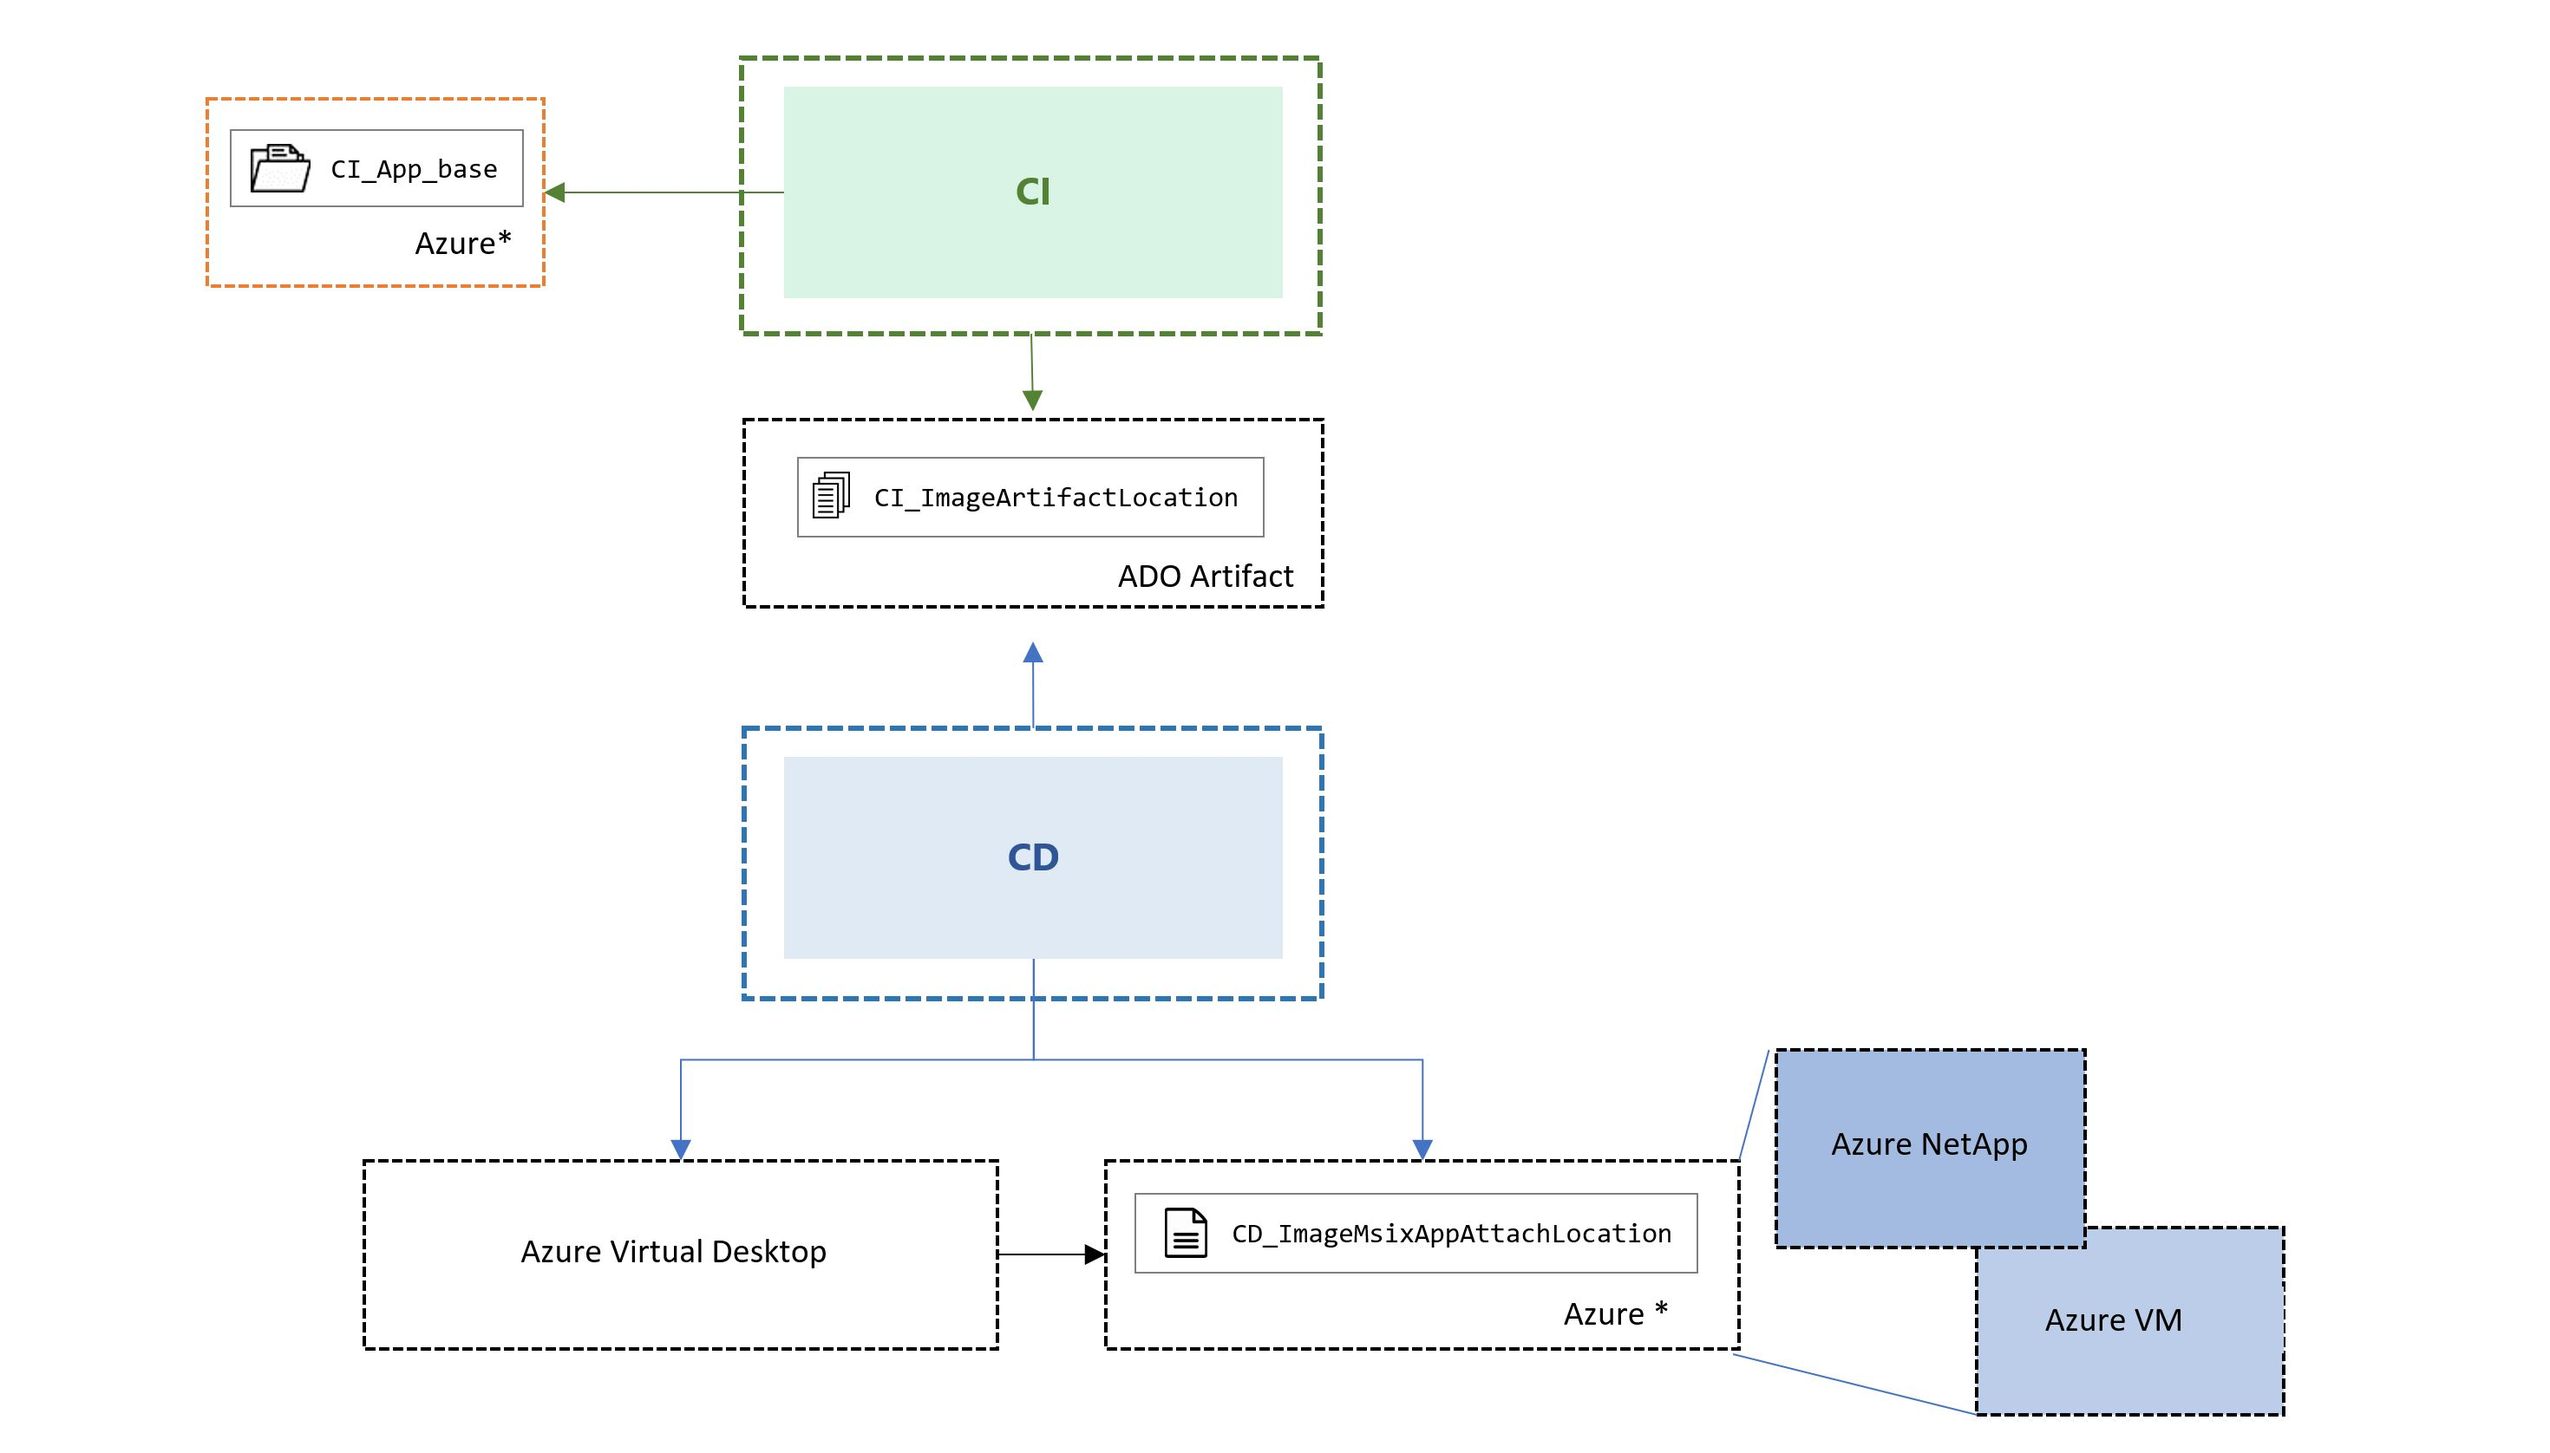
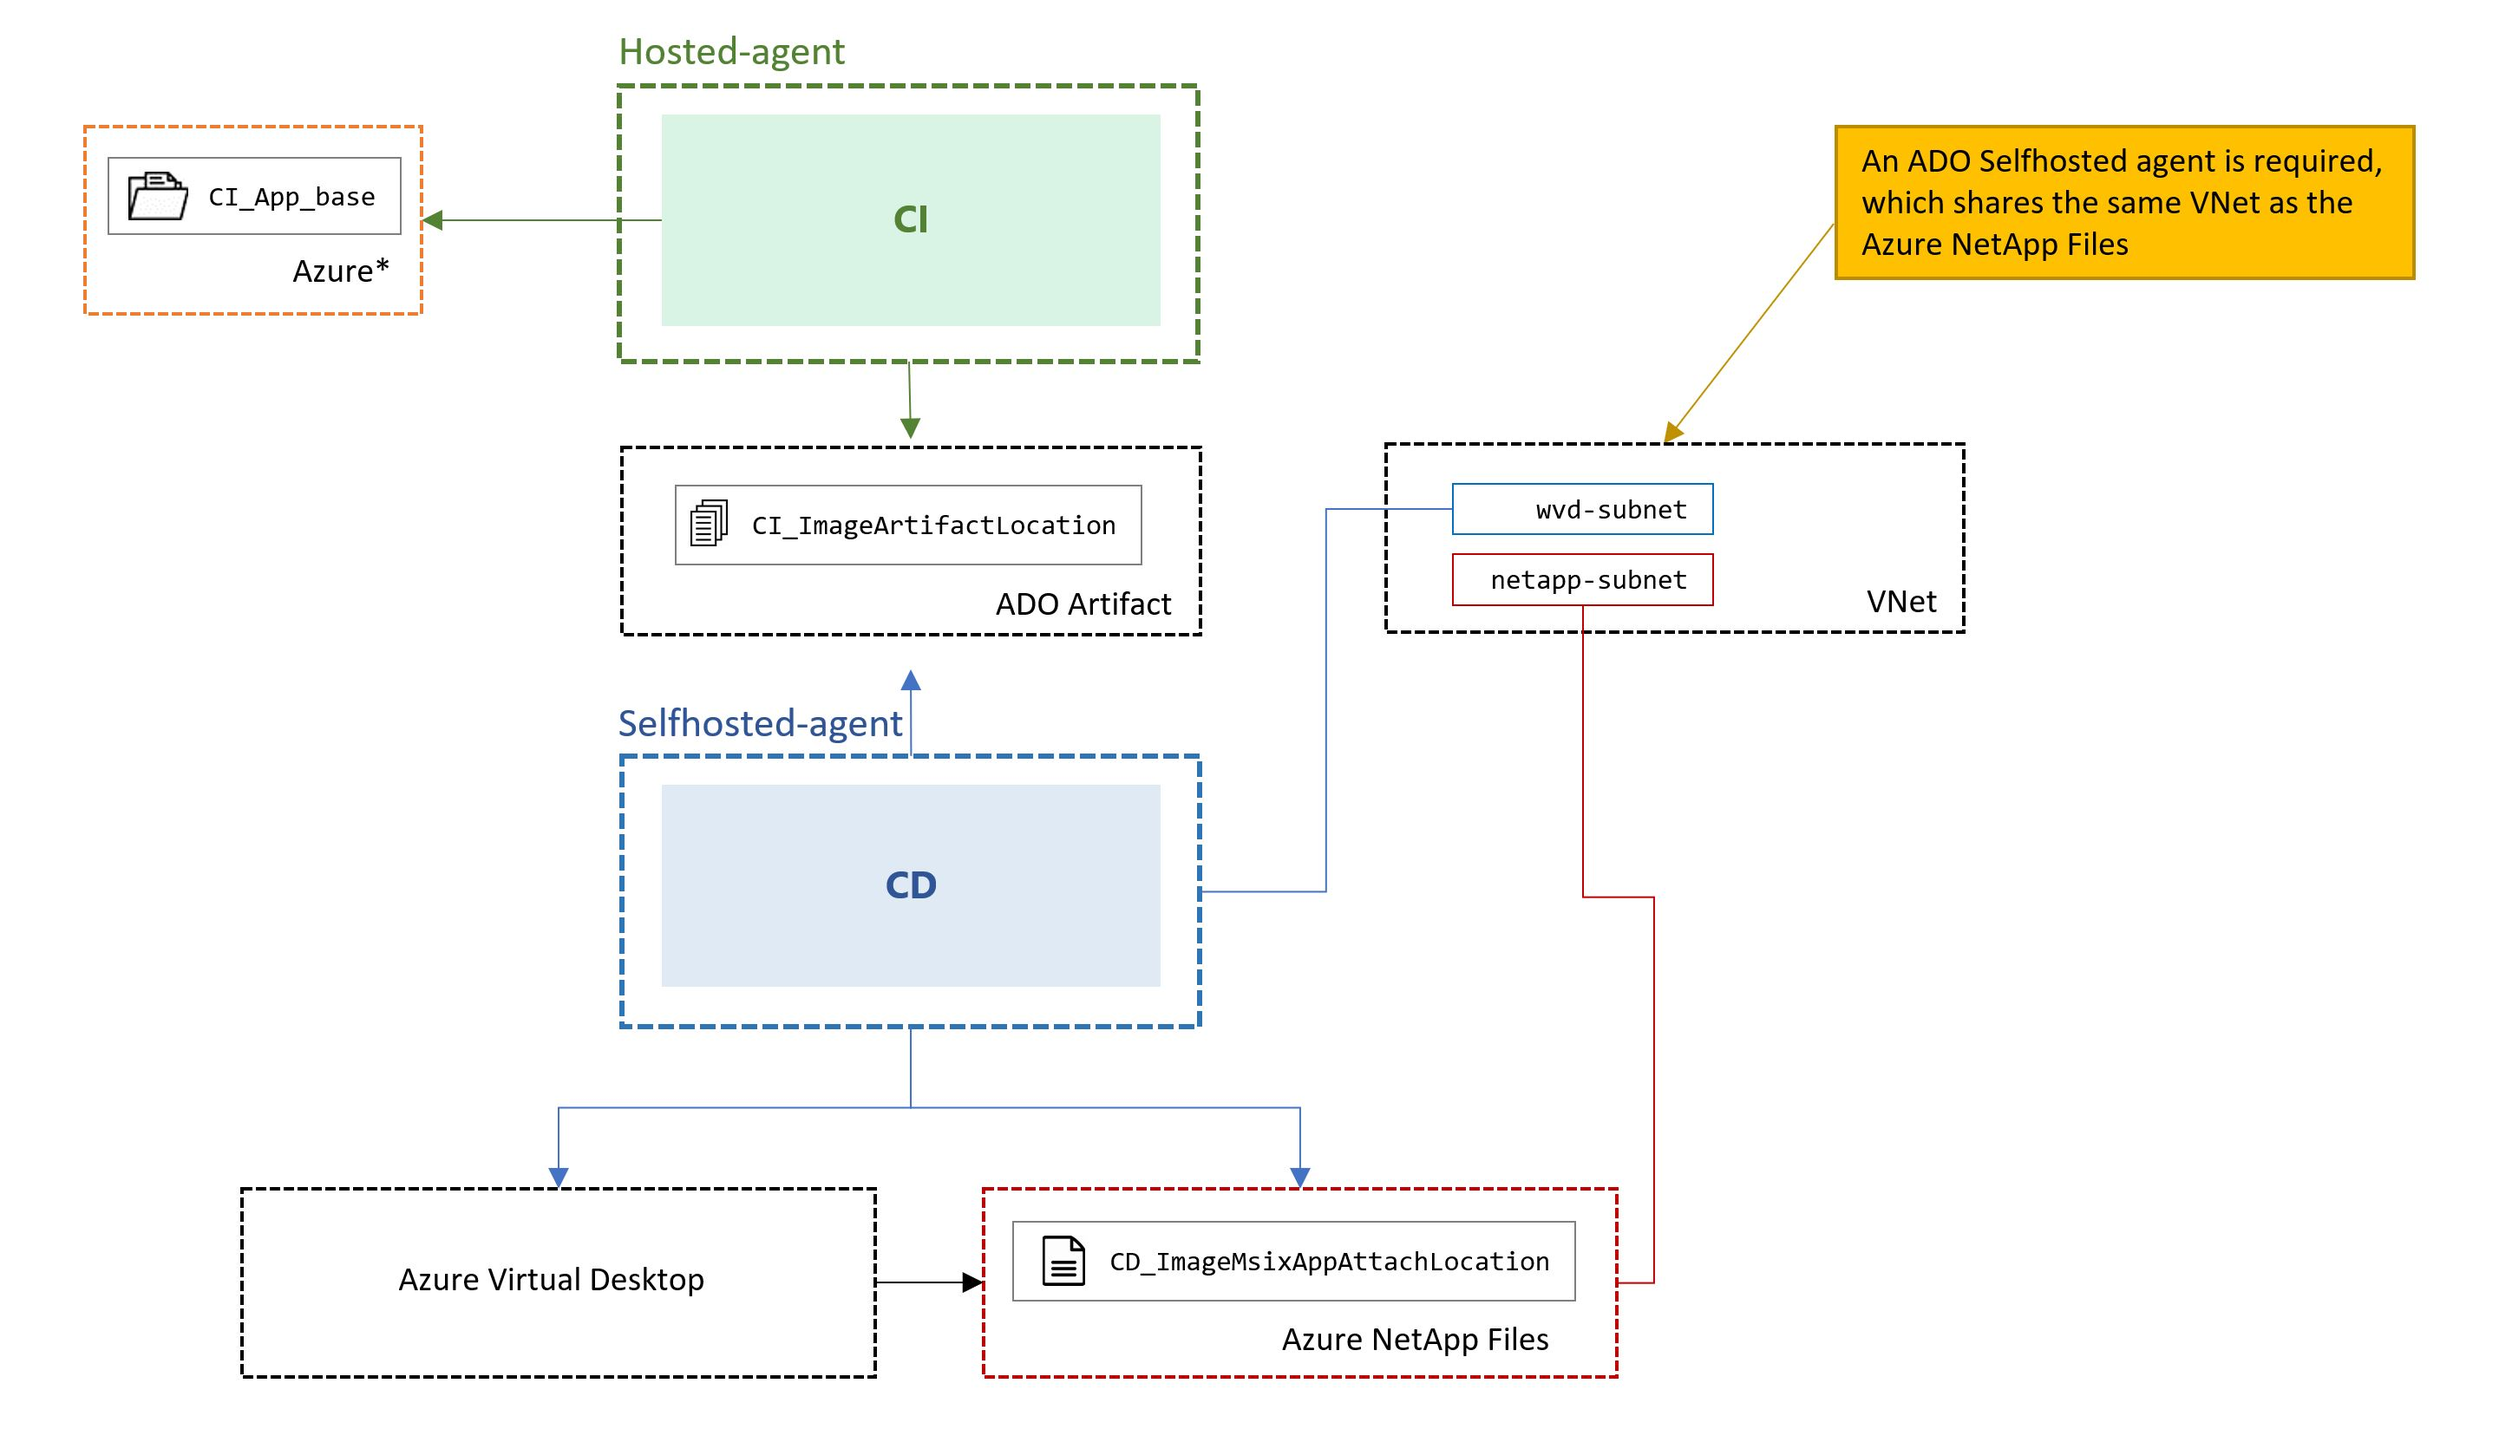
update Netapp docu

diff --git a/README.md b/README.md
@@ -65,7 +65,7 @@ As this project fosters a full MSIX Appattach CI/CD pipeline to Azure Virtual De
 * **Azure Active Directory** : Azure Active Directory Domain Services (AADDS) instance in the same Azure AD tenant.
 * **Azure Storage Account Gen2** :
   * Create Blob container to place application input file (zip). Documentation is available [here](https://docs.microsoft.com/en-us/azure/storage/blobs/.storage-quickstart-blobs-portal)
-* **Azure Virtual Machine (fileshare)** : For using the MSIX App Attach feature, a UNC file share is required. In this setup, a common Virtual Machine is set up. Documentation is available [here](https://docs.microsoft.com/en-us/azure/virtual-machines/windows/quick-create-portal).
+* **Azure Virtual Machine (MSIX_AppAttach_File_share)** : For using the MSIX App Attach feature, a UNC file share is required. In this setup, a common Virtual Machine is set up. Documentation is available [here](https://docs.microsoft.com/en-us/azure/virtual-machines/windows/quick-create-portal).
 * **Remote Desktop clients** : Several clients are supported for different OSs and devices. Download the one that suits you, by checking the options [here](https://docs.microsoft.com/en-us/azure/virtual-desktop/overview#supported-remote-desktop-clients).
 * **Bash shell** : Having a bash shell (ex:WSL2) in order to run provided `.sh` scripts. The Azure CLI is requried to be installed.
 
